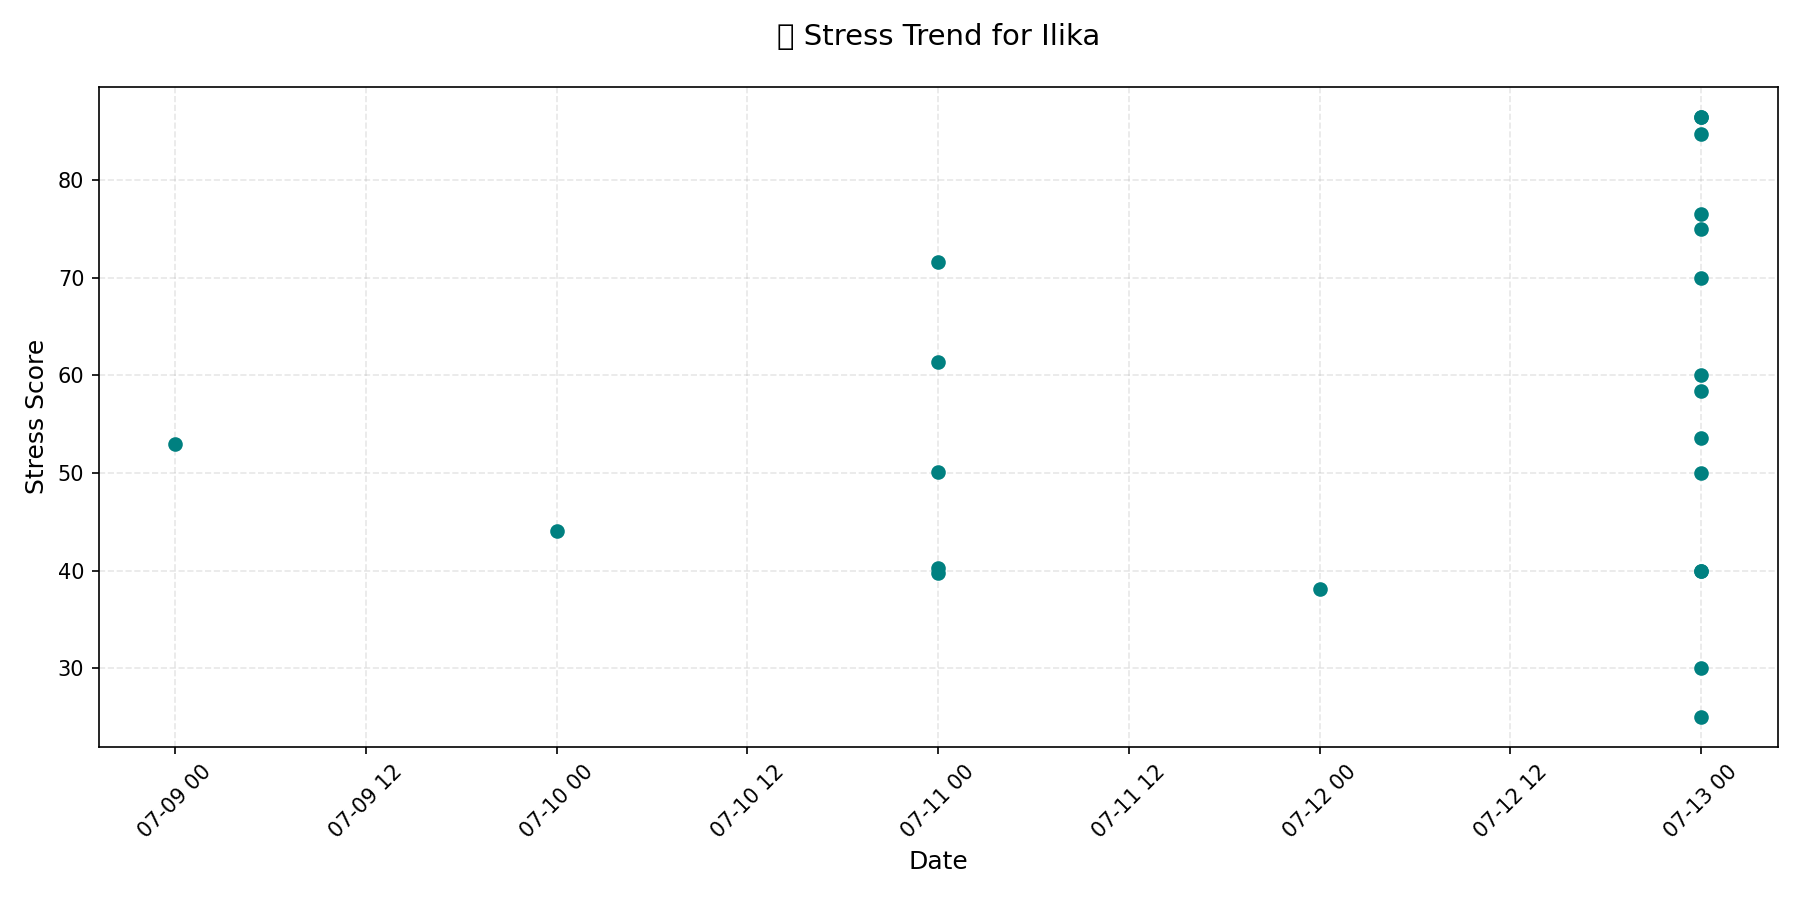
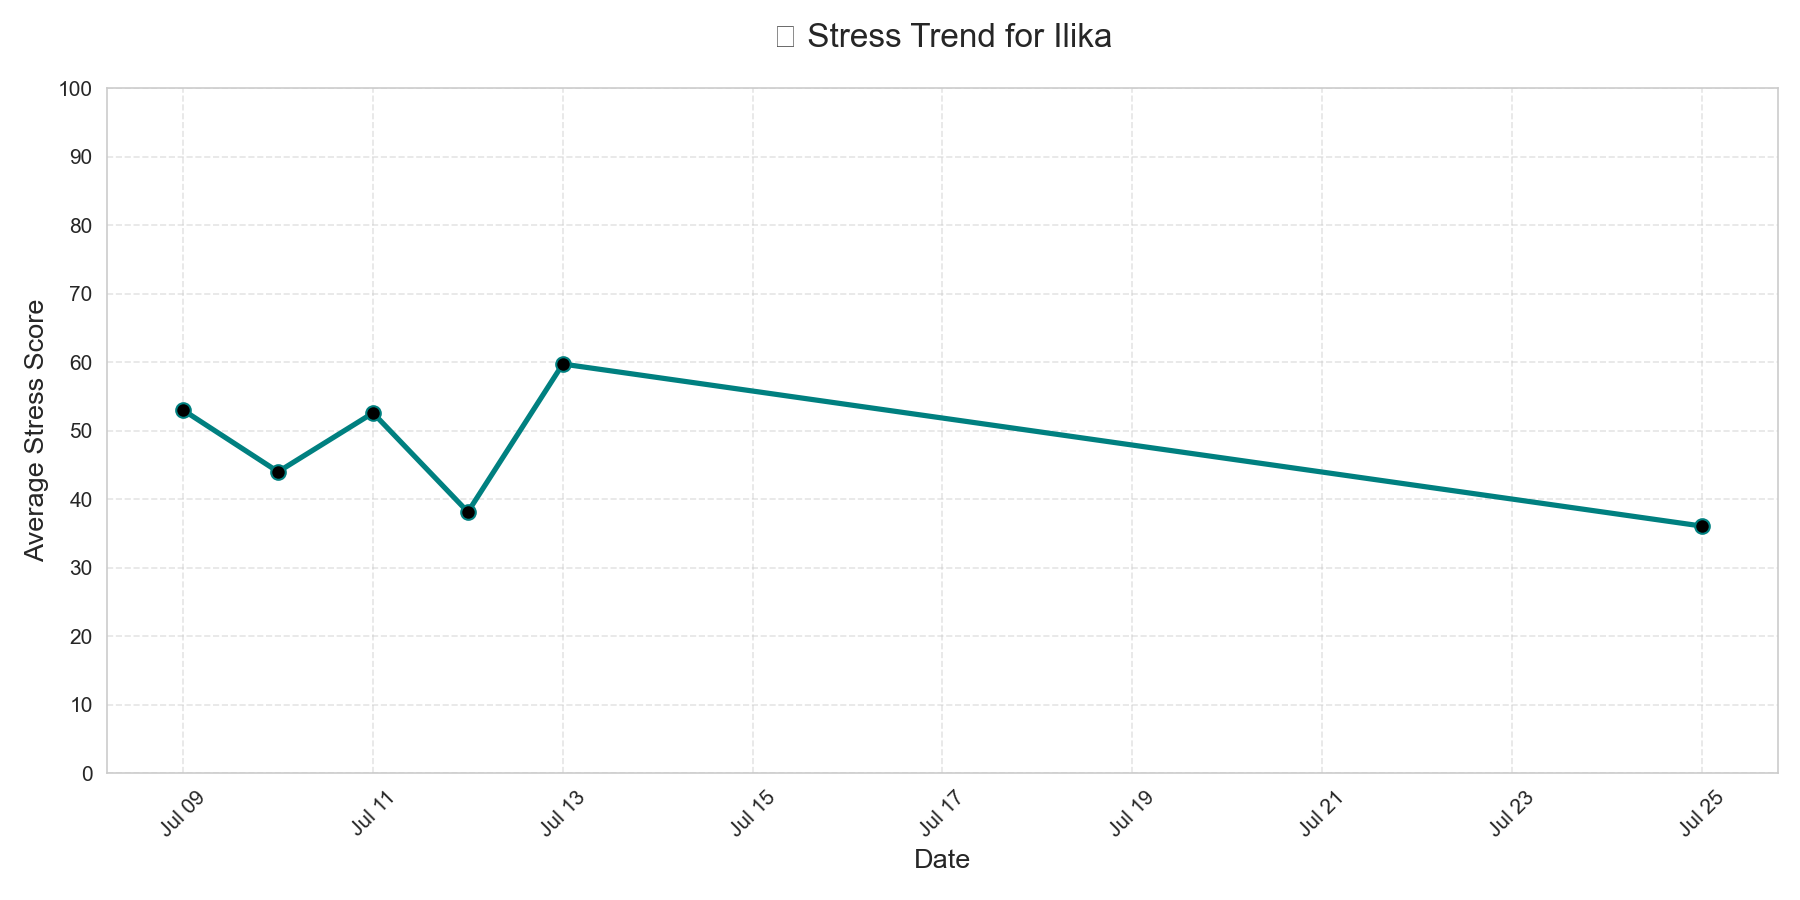
graph improved

diff --git a/app.py b/app.py
@@ -222,6 +222,7 @@ def generate_user_graph(user_email):
     try:
         user_name = session.get('user_name', user_email)
 
+        # Step 1: Fetch and format records
         records = list(stress_collection.find(
             {"user_email": user_email},
             {"_id": 0, "timestamp": 1, "stress_score": 1}
@@ -230,28 +231,48 @@ def generate_user_graph(user_email):
         if not records:
             return None
 
+        # Step 2: Create DataFrame and parse timestamp
         df = pd.DataFrame(records)
         df['timestamp'] = pd.to_datetime(df['timestamp'])
         df.sort_values('timestamp', inplace=True)
         df['date'] = df['timestamp'].dt.date
 
-        # Group by date
-        grouped = df.groupby('date')
+        # Step 3: Group by date and compute average stress score
+        daily_avg = df.groupby('date')['stress_score'].mean().reset_index()
 
+        # Step 4: Plotting
         plt.figure(figsize=(12, 6))
-        for date, group in grouped:
-            # Plot all stress_scores on the same date with slight jitter in x
-            x_vals = [date] * len(group)
-            y_vals = group['stress_score'].tolist()
-            plt.plot(x_vals, y_vals, marker='o', linestyle='', color='teal')  # no line between days
+        sns.set_style("whitegrid")
 
-        plt.title(f"🧠 Stress Trend for {user_name}", fontsize=14, pad=20)
-        plt.xlabel("Date", fontsize=12)
-        plt.ylabel("Stress Score", fontsize=12)
+        plt.plot(
+            daily_avg['date'],
+            daily_avg['stress_score'],
+            color='teal',
+            linewidth=2.5,
+            marker='o',
+            markersize=7,
+            markerfacecolor='black'
+        )
+
+        # X-axis formatting
+        plt.gca().xaxis.set_major_formatter(mdates.DateFormatter('%b %d'))
+        plt.gca().xaxis.set_major_locator(mdates.AutoDateLocator())
         plt.xticks(rotation=45, fontsize=10)
-        plt.grid(True, linestyle='--', alpha=0.3)
+
+        # Y-axis formatting (0 to 100 with steps of 10)
+        plt.ylim(0, 100)
+        plt.yticks(range(0, 101, 10), fontsize=10)
+
+        # Labels and title
+        plt.title(f"🧠 Stress Trend for {user_name}", fontsize=16, pad=20)
+        plt.xlabel("Date", fontsize=13)
+        plt.ylabel("Average Stress Score", fontsize=13)
+
+        # Grid and layout
+        plt.grid(True, linestyle='--', alpha=0.5)
         plt.tight_layout()
 
+        # Save graph
         filename = f"static/graph_{user_email}.png"
         plt.savefig(filename, dpi=150)
         plt.close()
